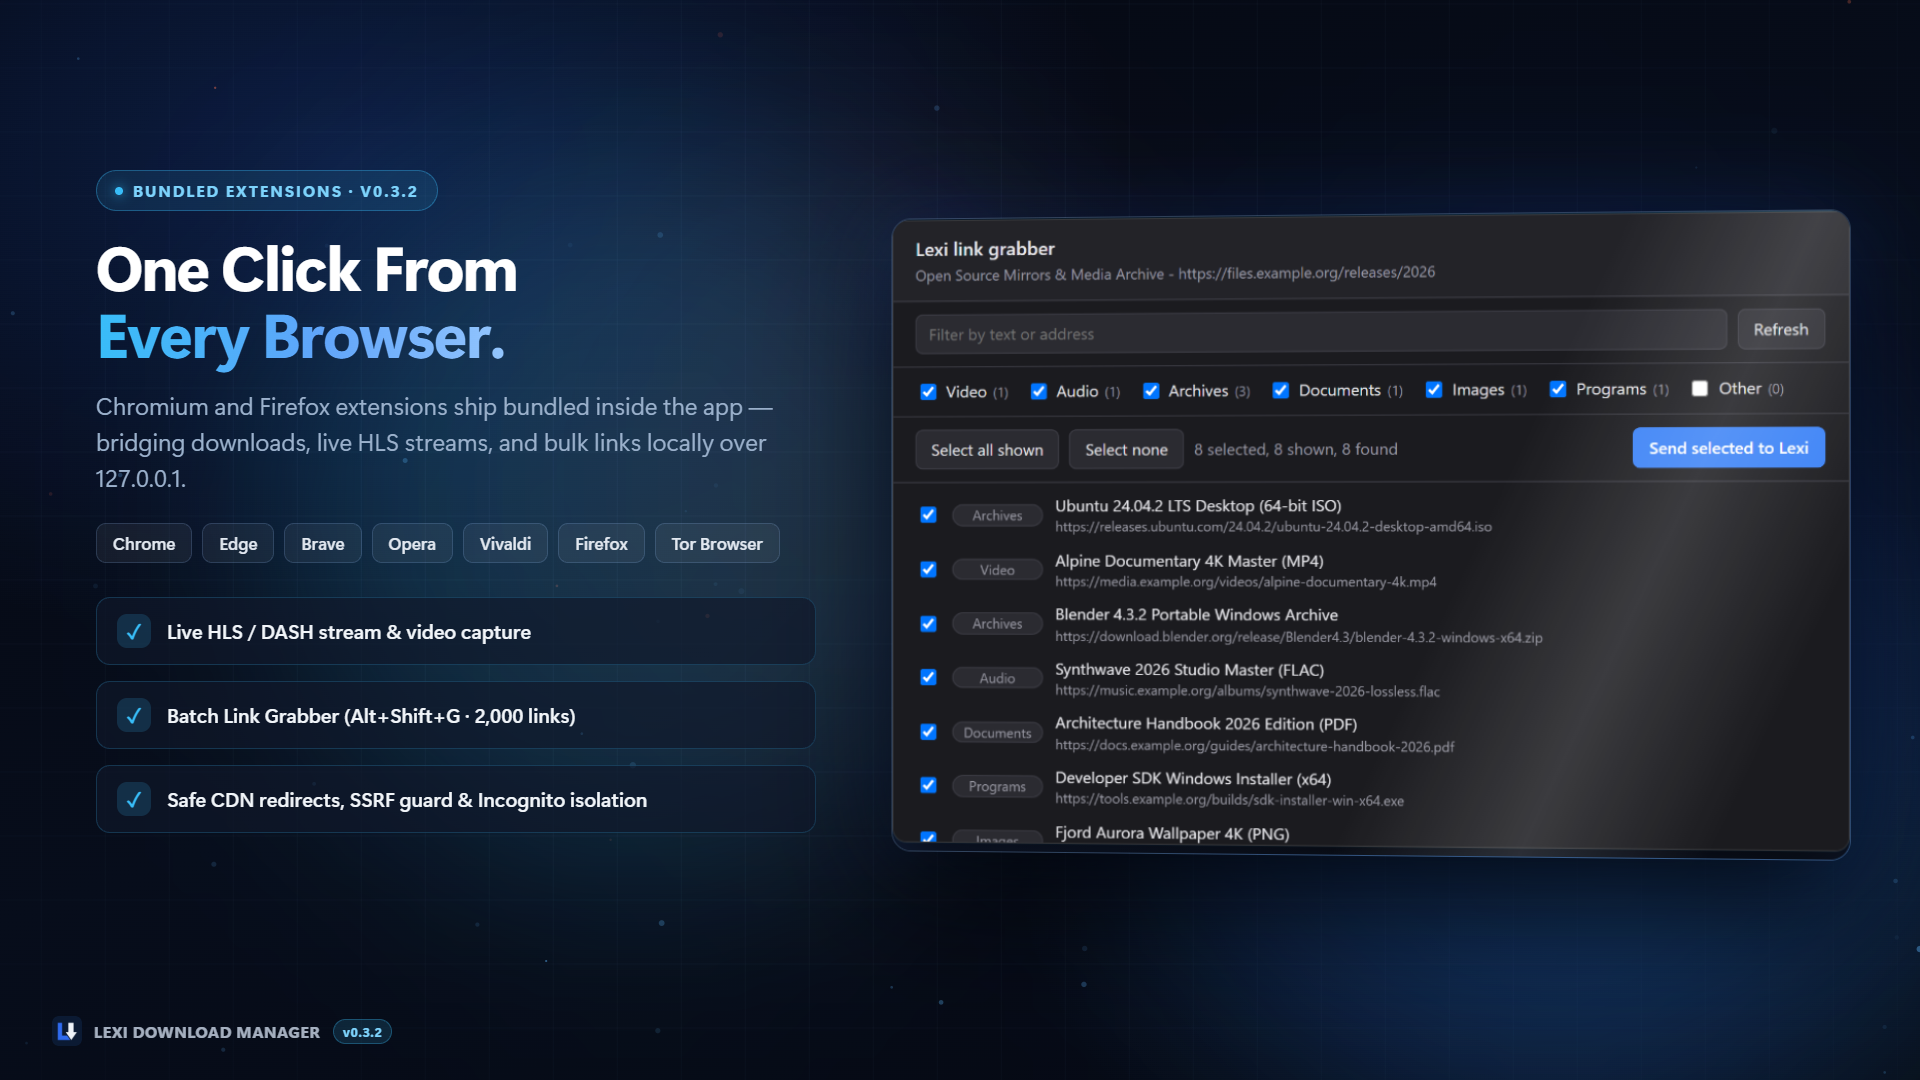
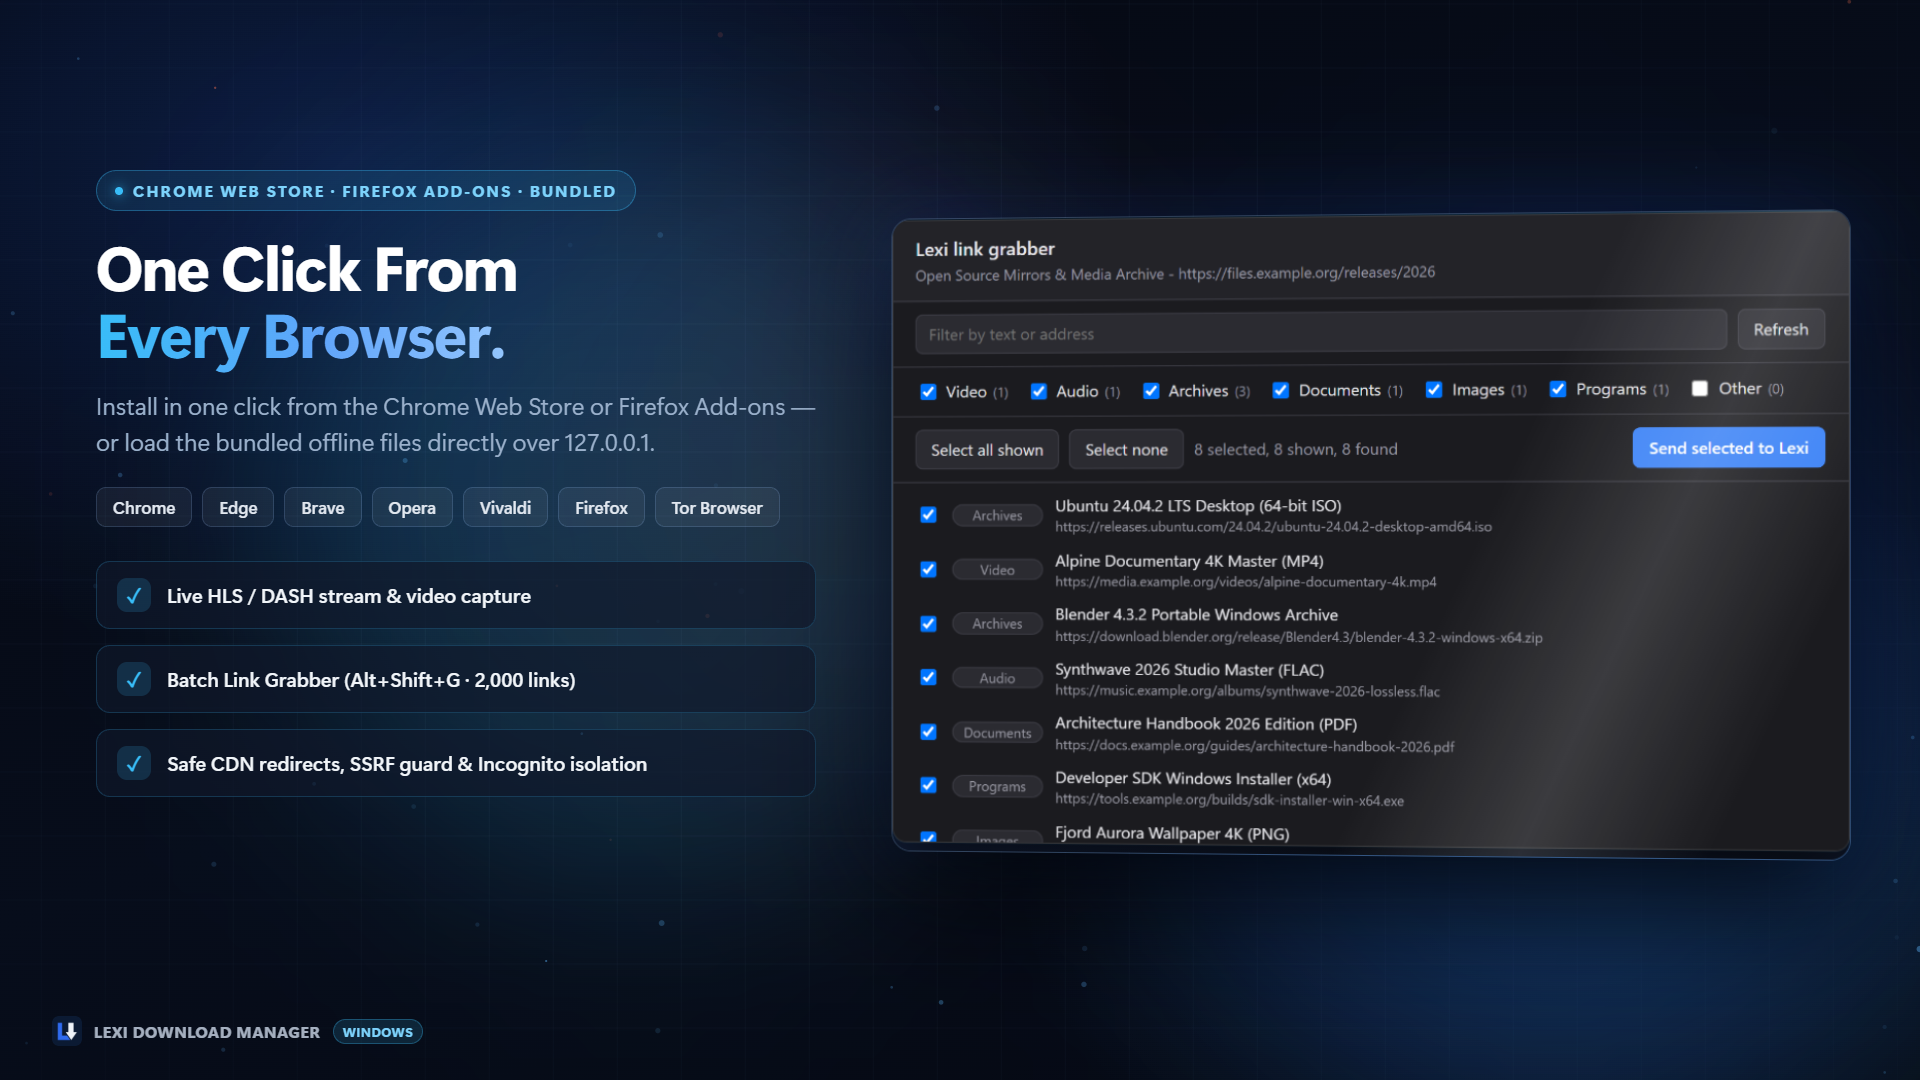
docs: remove portable references and keep desktop installer only

Changed region(s): [[0.0312, 0.3667, 0.4062, 0.7639], [0.0625, 0.1528, 0.3125, 0.1833], [0.1875, 0.9472, 0.2188, 0.9778]]

diff --git a/README.md b/README.md
@@ -19,7 +19,7 @@ Free, local-first multi-part download manager for Windows with video sites, live
 
 ### [Download Lexi Download Manager 0.3.3 for Windows](https://github.com/lexi-apps/lexi-download-manager/releases/latest)
 
-<sub>Run <code>Lexi-Setup-0.3.3.exe</code> (installer) or <code>Lexi-Portable-0.3.3.zip</code> (portable) · Windows 10 or Windows 11 (64-bit) · Extensions: <a href="https://chromewebstore.google.com/detail/lexi-download-manager/kddhaiacbpnikofoopikaapaehfaklln">Chrome Web Store</a> · <a href="https://addons.mozilla.org/firefox/addon/lexi-download-manager/">Firefox Add-ons</a></sub>
+<sub>Run <code>Lexi-Setup-0.3.3.exe</code> · Windows 10 or Windows 11 (64-bit) · Extensions: <a href="https://chromewebstore.google.com/detail/lexi-download-manager/kddhaiacbpnikofoopikaapaehfaklln">Chrome Web Store</a> · <a href="https://addons.mozilla.org/firefox/addon/lexi-download-manager/">Firefox Add-ons</a></sub>
 
 [Overview](#overview) · [See It in Action](#see-it-in-action) · [Features](#features) · [Screenshots](#screenshots) · [Installation](#installation) · [FAQ](#faq) · [Türkçe](#türkçe)
 
@@ -79,12 +79,12 @@ Your download history, encrypted cookies, credentials, Debrid API keys, and exte
 | **Live HLS stream capture** | The browser extension detects live HLS and media streams playing on web pages, lists selectable resolutions in the extension popup, and merges segments cleanly into a single video file. |
 | **BitTorrent & magnet links** | Supports magnet URIs and local `.torrent` files, optional Windows default magnet handler registration, selective multi-file `.torrent` file picker, live global upload speed limit (`KB/s`), and configurable post-download seed time/ratio limits. |
 | **Debrid & file hosts** | Built-in **Real-Debrid**, **AllDebrid**, and **TorBox** support using write-only encrypted API keys in priority order with automatic direct fallback, plus native resolvers for **Buzzheavier**, **Bzzhr**, **FuckingFast**, **Krakenfiles**, **1Fichier**, Mega (files and folders), Gofile (including password-protected links), Pixeldrain, and MediaFire. |
-| **Official & bundled browser extensions** | 1-click install from [Chrome Web Store](https://chromewebstore.google.com/detail/lexi-download-manager/kddhaiacbpnikofoopikaapaehfaklln) (Chrome, Edge, Brave, Opera, Vivaldi) and [Firefox Add-ons](https://addons.mozilla.org/firefox/addon/lexi-download-manager/), plus bundled Chromium (`v0.3.3`) and Firefox (`v0.3.3`) files inside both installer and portable packages for offline setup. Eliminates native browser Save-As popups when Lexi is active, includes a 15-minute browser handback bridge, Batch Link Grabber (`Alt+Shift+G`, up to 2,000 links), per-site toggle, `Alt`-click bypass, and expired link refresh. |
+| **Official & bundled browser extensions** | 1-click install from [Chrome Web Store](https://chromewebstore.google.com/detail/lexi-download-manager/kddhaiacbpnikofoopikaapaehfaklln) (Chrome, Edge, Brave, Opera, Vivaldi) and [Firefox Add-ons](https://addons.mozilla.org/firefox/addon/lexi-download-manager/), plus bundled Chromium (`v0.3.3`) and Firefox (`v0.3.3`) files inside the installer for offline setup. Eliminates native browser Save-As popups when Lexi is active, includes a 15-minute browser handback bridge, Batch Link Grabber (`Alt+Shift+G`, up to 2,000 links), per-site toggle, `Alt`-click bypass, and expired link refresh. |
 | **3-stage download dialog & drop-zone** | Floating **IDM-style 3-stage download dialog** (Save Prompt with live free disk space & recent folder chips -> Live Progress with SVG speed chart, segment bars & inline speed limit -> Completion summary), paired with an always-on-top **Floating Drop-Zone** widget for dragging URLs and `.torrent` files directly. |
 | **Automation & organization** | Custom download rules (by extension, domain, or URL pattern -> folder, speed limit, naming template, post-action), custom categories, RSS/Atom feed subscriptions, watched folders (`.torrent` / `.txt`), duplicate download warnings, and Windows taskbar progress indicator. |
 | **Power-user interface** | Combine **Status + Category + Queue** filters simultaneously and clear active filter chips above the list, resize the **Details** panel smoothly (height persists across restarts) with an aggregate summary for multi-row selections, search **Settings** live in English or Turkish, set bulk speed limits, and export selected links to `.txt`. |
 | **Privacy, encryption & Tor/proxy** | Stores saved cookies, HTTP authentication, proxy credentials, site logins, Debrid keys, and extension pairing token (`X-Lexi-Token`) encrypted on your PC. Supports end-to-end global or per-download HTTP, HTTPS, and SOCKS5/SOCKS5h proxies (direct, Debrid, file hosts, MEGA, HLS, and `yt-dlp`) as well as built-in Tor routing. |
-| **Integrity, portable mode & backups** | Expected checksum verification (SHA-256 / MD5), mirror URL fallback, automatic Windows Defender scan, daily automatic database backups (`7` automatic, `20` manual), safe settings export/import, and portable mode via `portable.txt`. |
+| **Integrity & automatic backups** | Expected checksum verification (SHA-256 / MD5), mirror URL fallback, automatic Windows Defender scan, daily automatic database backups (`7` automatic, `20` manual), and safe settings export/import. |
 | **Self-updating & languages** | Background auto-updates for Lexi and its bundled tools via GitHub Releases, full real-time **English** and **Turkish** UI switching, and built-in redacted diagnostic issue reporting. |
 
 ## Screenshots
@@ -104,7 +104,6 @@ Your download history, encrypted cookies, credentials, Debrid API keys, and exte
 ## Installation
 
 - **Desktop Installer:** Download **`Lexi-Setup-0.3.3.exe`** from the [latest release](https://github.com/lexi-apps/lexi-download-manager/releases/latest) and run it. Because the binary is not code-signed yet, Windows SmartScreen may show a prompt — click **More info -> Run anyway**.
-- **Portable Archive:** Download **`Lexi-Portable-0.3.3.zip`** and extract it anywhere. Portable mode keeps all databases and settings in its local `data/` folder without writing to `%APPDATA%`.
 - **Browser Extension:** Install in one click from the [Chrome Web Store](https://chromewebstore.google.com/detail/lexi-download-manager/kddhaiacbpnikofoopikaapaehfaklln) (Chrome, Edge, Brave, Opera, Vivaldi) or [Firefox Add-ons](https://addons.mozilla.org/firefox/addon/lexi-download-manager/). Bundled local `0.3.3` extension files also remain inside **Settings -> Browser extension -> Manual / local files** for offline setups.
 - **Requirements:** Windows 10 or Windows 11 (64-bit).
 
@@ -119,7 +118,7 @@ Yes. Every feature in Lexi Download Manager is free, with no advertisements, no 
 <details>
 <summary><b>How do updates work?</b></summary>
 
-While running in installed mode, Lexi checks GitHub Releases for newer versions, verifies package integrity, downloads updates in the background, and installs them cleanly when you exit (or when you restart to apply). Portable builds notify you when a new version is available so you can replace the files while keeping your `data/` folder.
+Lexi checks GitHub Releases for newer versions automatically, verifies package integrity, downloads updates in the background, and installs them cleanly when you exit (or when you restart to apply).
 </details>
 
 <details>
@@ -180,7 +179,7 @@ Windows 10 ve 11 (64-bit) için ücretsiz, reklam içermeyen ve tam yerel çalı
 | **Canlı HLS yayın yakalama** | Tarayıcı eklentisi sayfada oynatılan canlı HLS yayınlarını algılar, çözünürlükleri listeler ve segmentleri tek bir video dosyası olarak birleştirir. |
 | **Torrent ve magnet bağlantıları** | Magnet bağlantıları ve `.torrent` dosyalarını destekler. Çok dosyalı torrentlerde seçici dosya indirme penceresi, canlı genel yükleme hızı sınırı (`KB/sn`) ve ayarlanabilir paylaşım sınırı sunar. |
 | **Debrid ve dosya siteleri** | Şifreli ve gizli tutulan API anahtarlarıyla öncelik sırasına göre çalışan **Real-Debrid**, **AllDebrid** ve **TorBox** desteği; ayrıca **Buzzheavier**, **Bzzhr**, **FuckingFast**, **Krakenfiles**, **1Fichier**, Mega, Gofile (parolalı bağlantılar dahil), Pixeldrain ve MediaFire çözücüleri. |
-| **Resmi ve gömülü tarayıcı eklentileri** | [Chrome Web Store](https://chromewebstore.google.com/detail/lexi-download-manager/kddhaiacbpnikofoopikaapaehfaklln) (Chrome, Edge, Brave, Opera, Vivaldi) ve [Firefox Eklentileri](https://addons.mozilla.org/firefox/addon/lexi-download-manager/) üzerinden tek tıkla kurulum; ayrıca çevrimdışı/elle kurulum için Chromium ve Firefox `0.3.3` paketleri kurulum ve taşınabilir paketin içinde hazır gelir. Lexi etkinken yerel tarayıcı Save-As penceresi açılmaz; 15 dakikalık geri devir köprüsü, Toplu Bağlantı Toplayıcı (`Alt+Shift+G`), eşleştirme kodu ve bağlantı yenileme içerir. |
+| **Resmi ve gömülü tarayıcı eklentileri** | [Chrome Web Store](https://chromewebstore.google.com/detail/lexi-download-manager/kddhaiacbpnikofoopikaapaehfaklln) (Chrome, Edge, Brave, Opera, Vivaldi) ve [Firefox Eklentileri](https://addons.mozilla.org/firefox/addon/lexi-download-manager/) üzerinden tek tıkla kurulum; ayrıca çevrimdışı/elle kurulum için Chromium ve Firefox `0.3.3` paketleri kurulum paketinin içinde hazır gelir. Lexi etkinken yerel tarayıcı Save-As penceresi açılmaz; 15 dakikalık geri devir köprüsü, Toplu Bağlantı Toplayıcı (`Alt+Shift+G`), eşleştirme kodu ve bağlantı yenileme içerir. |
 | **3 aşamalı pencere ve kayan sepet** | Kayan **IDM tarzı 3 aşamalı indirme penceresi** (canlı boş disk alanı ve hızlı klasörler -> SVG hız grafiği, segment çubukları ve satır içi hız limitiyle canlı ilerleme -> Tamamlandı özeti) ile doğrudan URL ve `.torrent` sürüklenebilen her zaman üstte **Kayan Bırakma Sepeti** sunar. |
 | **Gelişmiş arayüz ve otomasyon** | Birleşik **Durum + Kategori + Sıra** filtreleme, yüksekliği hatırlanan ve çoklu seçim özeti gösteren **Ayrıntılar** paneli, Türkçe/İngilizce **Ayarlar araması**, toplu hız sınırı, `.txt` bağlantı dışa aktarma, özel indirme kuralları, RSS/Atom akışları ve izlenen klasörler. |
 | **Gizlilik, Tor/vekil ve yedekleme** | Hesap, reklam veya telemetri içermez; kayıtlı çerezler, vekil şifreleri, site hesapları ve Debrid anahtarları bilgisayarınızda şifreli tutulur. Genel/görev bazlı uçtan uca HTTP, HTTPS ve SOCKS5/SOCKS5h vekil desteği, yerleşik Tor yönlendirmesi, SHA-256/MD5 doğrulaması, Windows Defender taraması ve günlük otomatik yedekler sunar. |
@@ -188,7 +187,6 @@ Windows 10 ve 11 (64-bit) için ücretsiz, reklam içermeyen ve tam yerel çalı
 ### Kurulum
 
 - **Kurulum Paketi:** [En son sürümden](https://github.com/lexi-apps/lexi-download-manager/releases/latest) **`Lexi-Setup-0.3.3.exe`** dosyasını indirip çalıştırın. Dijital imza sertifikası henüz bulunmadığı için Windows SmartScreen uyarısı çıkarsa **Ek bilgi -> Yine de çalıştır** seçin.
-- **Taşınabilir Sürüm:** Kurulum gerektirmeden kullanmak için **`Lexi-Portable-0.3.3.zip`** arşivini çıkartın; tüm veriler program yanındaki `data/` klasöründe saklanır.
 - **Tarayıcı Eklentisi:** [Chrome Web Store](https://chromewebstore.google.com/detail/lexi-download-manager/kddhaiacbpnikofoopikaapaehfaklln) (Chrome, Edge, Brave, Opera, Vivaldi) veya [Firefox Eklentileri](https://addons.mozilla.org/firefox/addon/lexi-download-manager/) üzerinden tek tıkla kurabilirsiniz. Çevrimdışı veya elle kurulum için gömülü `0.3.3` dosyaları da **Ayarlar -> Tarayıcı eklentisi -> Elle kur / yerel dosyalar** altında hazırdır.
 - **Gereksinim:** Windows 10 veya Windows 11 (64-bit).
 
@@ -203,7 +201,7 @@ Evet. Lexi Download Manager'daki tüm özellikler ücretsizdir; reklam, kullanı
 <details>
 <summary><b>Güncellemeler nasıl çalışır?</b></summary>
 
-Kurulu sürüm çalışırken yeni sürümleri arka planda kontrol eder, doğrulayarak indirir ve uygulamayı kapattığınızda kurar. Taşınabilir sürüm ise yeni sürüm çıktığında bildirim gösterir; eski `data/` klasörünüzü koruyarak güncelleme yapabilirsiniz.
+Uygulama çalışırken yeni sürümleri arka planda otomatik kontrol eder, doğrulayarak indirir ve uygulamayı kapattığınızda (veya yeniden başlattığınızda) sorunsuzca kurar.
 </details>
 
 <details>
